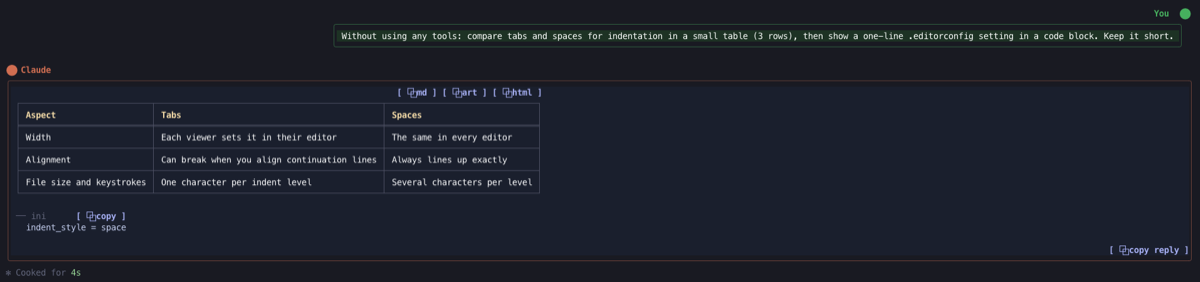
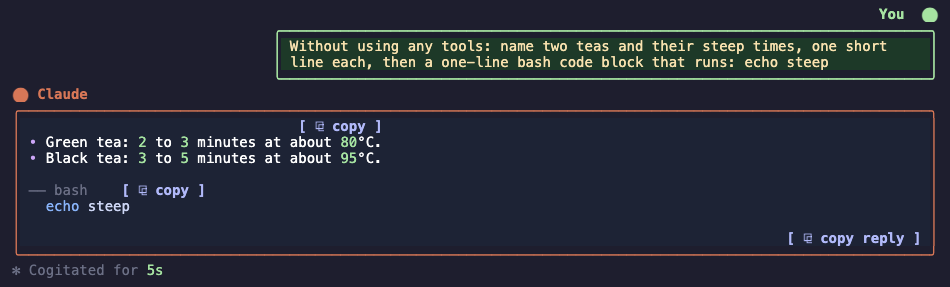
docs: real renders for every replyStyle, next to the option (#311)
bubble.png came from an external mod and solid/framed had no screenshot, which AGENTS.md requires for each style. All three are live-check renders of this repo in catppuccin-mocha.

Changed region(s): [[0.0, 0.0284, 1.0, 0.9929], [0.3053, 0.6241, 0.4579, 0.6809]]

diff --git a/README.md b/README.md
@@ -313,6 +313,10 @@ What you type, at the prompt or through Remote Control, draws in the theme's col
 
 `replyStyle` does the same for Claude's replies, so the two sides of the conversation read apart at a glance. Its default, `auto`, draws them as `bubble` while your prompts are a `bubble` and as `off` with any other `promptStyle`. `bubble` heads a reply with `⬤ Claude` and draws it in a rounded frame of Claude's orange, as Claude Code's theme draws it, on a midnight blue fill a step off the background, `solid` fills it to the edge with half blocks top and bottom and no frame, `framed` keeps the frame with no fill. A reply that calls tools between its sentences draws one bubble per block of text, and only the first gets `⬤ Claude`. In a theme with no colors to fill with, such as `mono`, `solid` draws the frame. `off` keeps the dot before the first line.
 
+| `bubble` (with `auto`) | `solid` | `framed` |
+|---|---|---|
+| ![Claude's reply under Claude in an orange frame on a filled background](docs/prompts/bubble.png) | ![Claude's reply on a filled background with no frame](docs/prompts/reply-solid.png) | ![Claude's reply in an orange frame with no fill](docs/prompts/reply-framed.png) |
+
 ### Right to left
 
 ![Right to left: plain Claude Code on the left, prismantis on the right](docs/compare/rtl.png)
